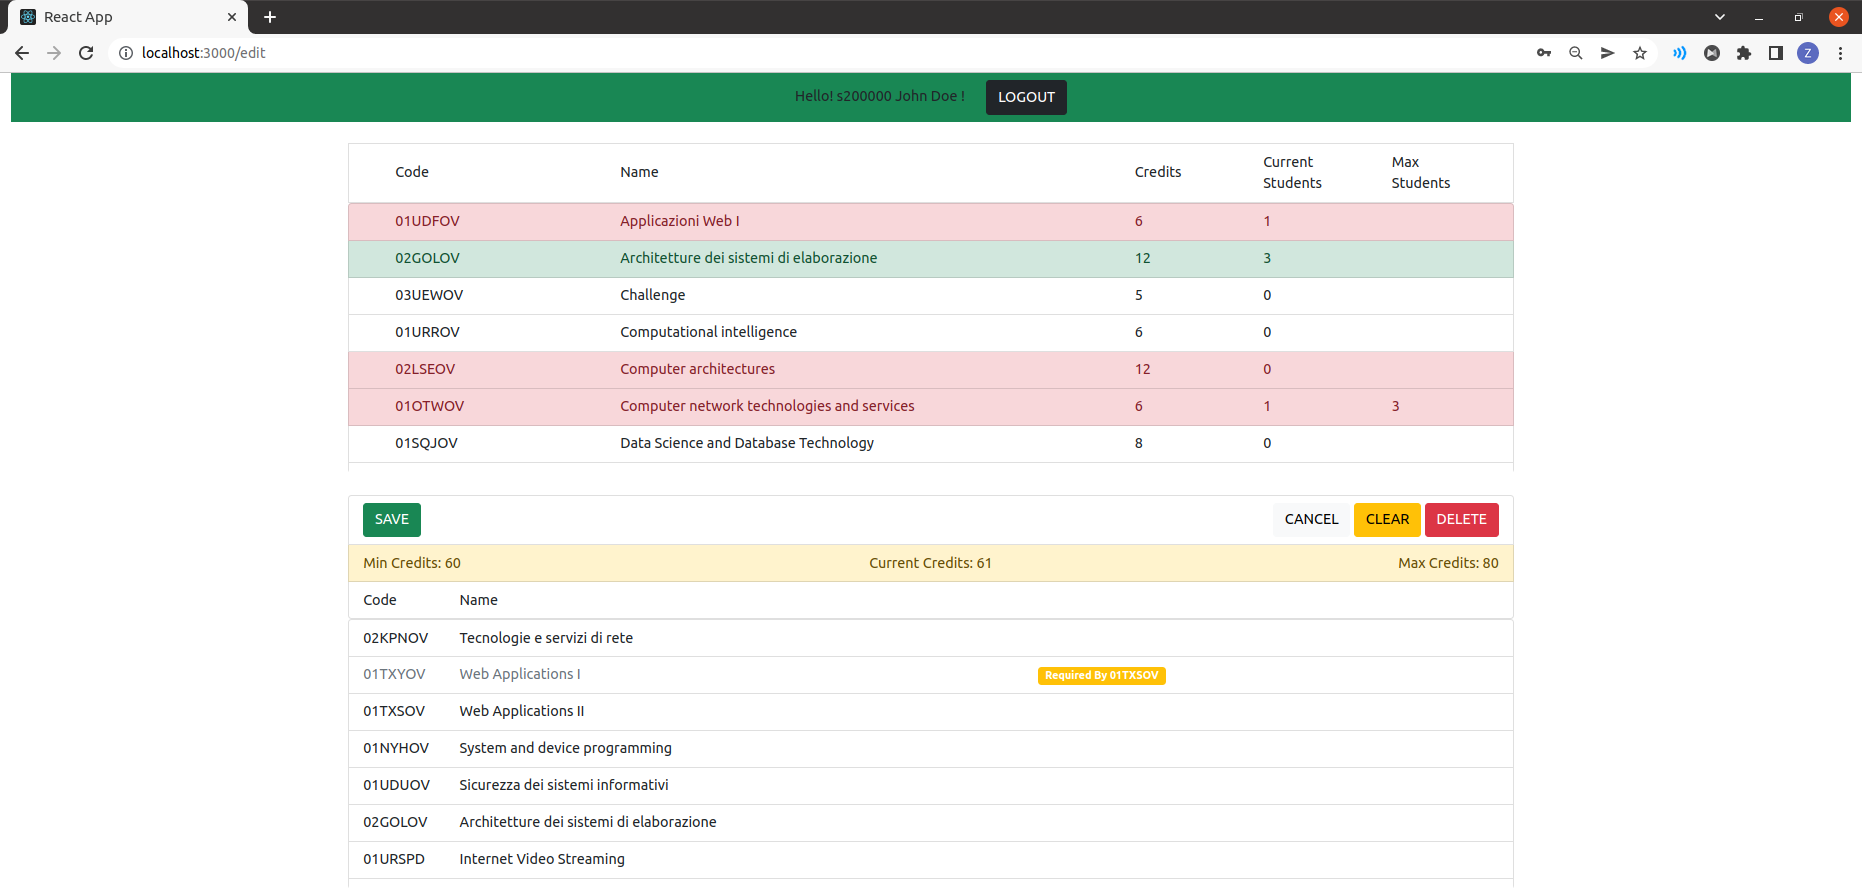
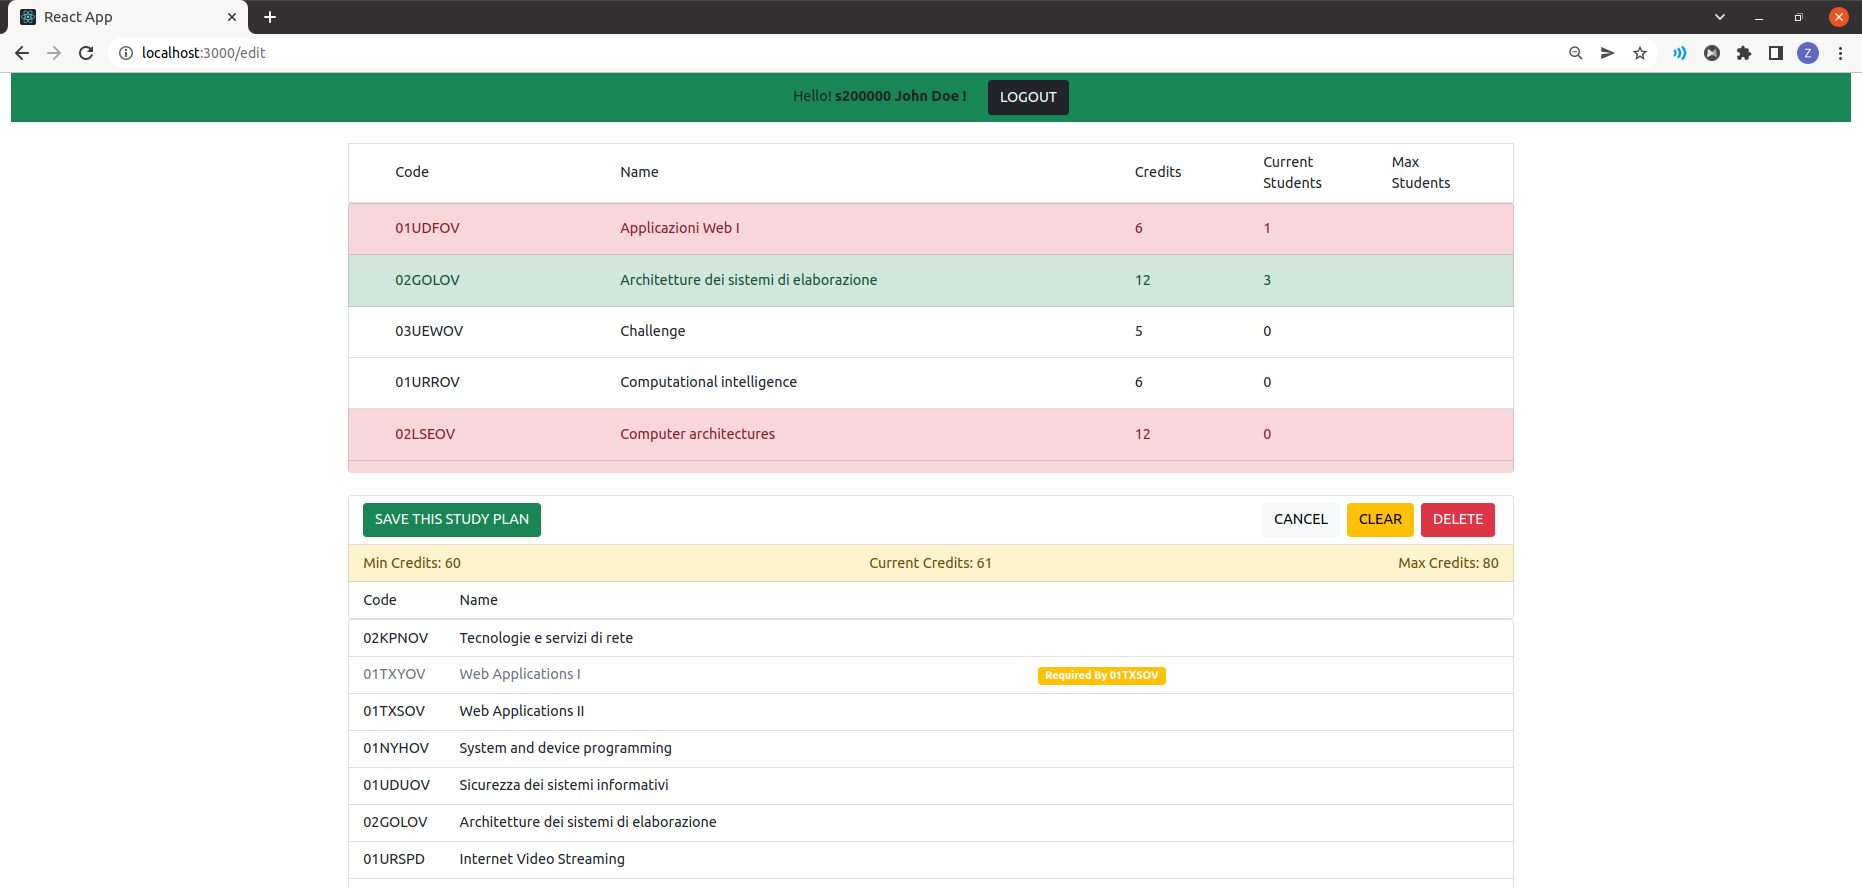
v0.95: Considered final except for obvious bugs

Changed region(s): [[0.1869, 0.2424, 0.841, 0.6061], [0.6853, 0.5758, 0.8099, 0.6061], [0.4361, 0.0909, 0.5607, 0.1212]]

diff --git a/client/src/components/AvailableCoursesList.js b/client/src/components/AvailableCoursesList.js
@@ -1,10 +1,7 @@
 import { Container, Row, Col, ListGroup, Badge } from 'react-bootstrap';
-import { useEffect, useState, useTransition } from 'react';
+import { useEffect, useState } from 'react';
 import { addSelectedCourse } from './models/SelectedCoursesFunctions';
-import {
-	fetchAvailableCourses,
-	setAvailableCoursesStatus
-} from './models/AvailableCoursesFunctions';
+import { fetchAvailableCourses } from './models/AvailableCoursesFunctions';
 
 export function AvailableCoursesList(props) {
 	useEffect(() => {
@@ -33,7 +30,7 @@ export function AvailableCoursesList(props) {
 				style={
 					props.hasLoggedIn
 						? { overflow: 'auto', maxHeight: '300px' }
-						: {}
+						: { overflow: 'auto', maxHeight: '700px' }
 				}>
 				<ListContent
 					isSelectable={props.isSelectable}
@@ -52,6 +49,7 @@ export function AvailableCoursesList(props) {
 function ListContent(props) {
 	return props.availableCoursesList.map(course => (
 		<ListRow
+			key={'avail-' + course.code}
 			isReady={props.isReady}
 			setIsReady={props.setIsReady}
 			isSelectable={props.isSelectable}
@@ -80,10 +78,10 @@ function ListRow(props) {
 		<>
 			<ListGroup.Item
 				action
-				eventKey={'avail_' + props.course.code}
+				// eventKey={'event_avail_' + props.course.code}
 				variant={
 					isCourseValid || !props.hasLoggedIn
-						? ''
+						? ' '
 						: props.isSelectable &&
 						  props.hasLoggedIn &&
 						  props.course.isTaken
@@ -93,82 +91,80 @@ function ListRow(props) {
 				onClick={() => {
 					setShowStatus(showStatus => !showStatus);
 				}}>
-				<Row className='d-flex align-items-center justify-content-evenly'>
+				<Row className='d-flex align-items-center justify-content-evenly my-2'>
 					<Col lg={2}>{props.course.code}</Col>
 					<Col lg={5}>{props.course.name}</Col>
 					<Col lg={1}>{props.course.credits}</Col>
 					<Col lg={1}>{props.course.currStudents}</Col>
 					<Col lg={1}>{props.course.maxStudents}</Col>
 				</Row>
+				{showStatus && (
+					<ListRowStatus
+						isReady={props.isReady}
+						setIsReady={props.setIsReady}
+						isSelectable={props.isSelectable}
+						hasLoggedIn={props.hasLoggedIn}
+						showStatus={showStatus}
+						selectedCoursesList={props.selectedCoursesList}
+						setSelectedCoursesList={props.setSelectedCoursesList}
+						addable={isCourseValid}
+						course={props.course}
+					/>
+				)}
 			</ListGroup.Item>
-			{showStatus && (
-				<ListRowStatus
-					isReady={props.isReady}
-					setIsReady={props.setIsReady}
-					isSelectable={props.isSelectable}
-					hasLoggedIn={props.hasLoggedIn}
-					showStatus={showStatus}
-					selectedCoursesList={props.selectedCoursesList}
-					setSelectedCoursesList={props.setSelectedCoursesList}
-					addable={isCourseValid}
-					course={props.course}
-				/>
-			)}
 		</>
 	);
 }
 
 function ListRowStatus(props) {
 	return (
-		<ListGroup.Item
-			action
-			disabled={!props.addable}
-			styles={{
-				...defaultStyles,
-				...transitionStyles[props.showStatus]
-			}}
+		<Row
+			as='li'
+			className='status-row d-flex align-items-center justify-content-between'
 			onClick={() => {
 				addSelectedCourse(props.course, props.setSelectedCoursesList);
 			}}>
-			<Row>
-				<Col>
-					{props.hasLoggedIn ? (
-						props.addable ? (
-							<div className='text'>
-								Click the row to add{' '}
-								<Badge>{props.course.code}</Badge>
-							</div>
-						) : !props.isSelectable ? (
-							<div className='text-muted'>
-								Create a Study Plan first
-							</div>
-						) : props.course.isTaken ? (
-							<div className='text-muted'>Course Added</div>
-						) : props.course.isFullyBooked ? (
-							<div className='text-muted'>Fully booked</div>
-						) : (
-							<div className='text-muted'>
-								Please check the constraint
-							</div>
-						)
+			<hr
+				style={{
+					backgroundColor: 'grey',
+					height: 1,
+					opacity: 0.3
+				}}
+			/>
+			<Col>
+				{props.hasLoggedIn ? (
+					props.addable ? (
+						<div className='text'>Click THIS Row To ADD</div>
+					) : !props.isSelectable ? (
+						<div className='text-muted'>
+							Create a Study Plan first
+						</div>
+					) : props.course.isTaken ? (
+						<div className='text-muted'>Course Added</div>
+					) : props.course.isFullyBooked ? (
+						<div className='text-muted'>Fully booked</div>
 					) : (
-						<div className='text-muted'>Please login first</div>
-					)}
-				</Col>
-				<Col className='d-flex justify-content-center'>
-					<ShowConflictBadges
-						course={props.course}
-						selectedCoursesList={props.selectedCoursesList}
-					/>
-				</Col>
-				<Col className='d-flex align-content-center'>
-					<ShowPreparatoryBadge
-						course={props.course}
-						selectedCoursesList={props.selectedCoursesList}
-					/>
-				</Col>
-			</Row>
-		</ListGroup.Item>
+						<div className='text-muted'>
+							Please check the constraint
+						</div>
+					)
+				) : (
+					<div className='text-muted'>Please login first</div>
+				)}
+			</Col>
+			<Col className='d-flex justify-content-center'>
+				<ShowConflictBadges
+					course={props.course}
+					selectedCoursesList={props.selectedCoursesList}
+				/>
+			</Col>
+			<Col className='d-flex align-content-center'>
+				<ShowPreparatoryBadge
+					course={props.course}
+					selectedCoursesList={props.selectedCoursesList}
+				/>
+			</Col>
+		</Row>
 	);
 }
 
@@ -180,7 +176,7 @@ function ShowConflictBadges(props) {
 			<div className='text-muted'>Incompatible with</div>
 			{props.course.incompatibleCodes.map(code => (
 				<Badge
-					className='ms-1'
+					className='mx-1'
 					bg={
 						props.course.conflictsList &&
 						props.course.conflictsList.includes(code)
@@ -199,7 +195,7 @@ function ShowPreparatoryBadge(props) {
 		<>
 			<div className='text-muted'>Needs</div>
 			<Badge
-				className='ms-1'
+				className='mx-1'
 				bg={props.course.hasPreparatory ? 'success' : 'warning'}>
 				{props.course.preparatoryCourseCode}
 			</Badge>
@@ -208,15 +204,3 @@ function ShowPreparatoryBadge(props) {
 		<Badge bg='success'>No Preparatory Required!</Badge>
 	);
 }
-
-const defaultStyles = {
-	transition: `opacity 300ms ease-in-out`,
-	opacity: 0
-};
-
-const transitionStyles = {
-	entering: { opacity: 1 },
-	entered: { opacity: 1 },
-	exiting: { opacity: 0 },
-	exited: { opacity: 0 }
-};

diff --git a/client/src/components/SelectedCoursesList.js b/client/src/components/SelectedCoursesList.js
@@ -8,7 +8,6 @@ import {
 	Badge,
 	Modal
 } from 'react-bootstrap';
-import { fetchAvailableCourses } from './models/AvailableCoursesFunctions';
 const listFunctions = require('./models/SelectedCoursesFunctions');
 
 export function SelectedCoursesList(props) {
@@ -124,7 +123,7 @@ export function SelectedCoursesList(props) {
 export function CreateNewStudyPlanRow(props) {
 	return (
 		<Row className='d-flex justify-content-center'>
-			<Col className='d-flex justify-content-center'>
+			<Col className='d-flex justify-content-evenly'>
 				<Button
 					className='mx-2'
 					variant='primary'
@@ -169,12 +168,12 @@ function ListActions(props) {
 							);
 							props.setHasSent(true);
 						}}>
-						SAVE
+						SAVE THIS STUDY PLAN
 					</Button>
 				</Col>
 				<Col className='d-flex justify-content-end'>
 					<Button
-						className='ms-1'
+						className='mx-1'
 						variant='light'
 						onClick={() => {
 							listFunctions.fetchSelectedCourses(
@@ -188,7 +187,7 @@ function ListActions(props) {
 						CANCEL
 					</Button>
 					<Button
-						className='ms-1'
+						className='mx-1'
 						variant='warning'
 						onClick={() => {
 							props.setSelectedCoursesList([]);
@@ -198,7 +197,7 @@ function ListActions(props) {
 						CLEAR
 					</Button>
 					<Button
-						className='ms-1'
+						className='mx-1'
 						variant='danger'
 						onClick={() => {
 							if (deleteConfirm) {

diff --git a/client/src/components/AuthNavBar.js b/client/src/components/AuthNavBar.js
@@ -120,8 +120,12 @@ function WelcomeMessage(props) {
 	return (
 		<Row className='d-inline justify-content-evenly'>
 			<Col className='d-inline justify-content-start align-items-center'>
-				Hello! {props.user.matricola} {props.user.first_name}{' '}
-				{props.user.last_name} !
+				Hello!{' '}
+				<strong>
+					{' '}
+					{props.user.matricola} {props.user.first_name}{' '}
+					{props.user.last_name} !
+				</strong>
 			</Col>
 			<Col className='d-inline justify-content-end align-items-center'>
 				<Button
@@ -133,15 +137,5 @@ function WelcomeMessage(props) {
 				</Button>
 			</Col>
 		</Row>
-	);
-}
-
-function LoginButtonWithPopup(props) {
-	return (
-		<Popover placement='bottom'>
-			<Popover.Body>
-				<strong>{props.errMessage}</strong>
-			</Popover.Body>
-		</Popover>
 	);
 }

diff --git a/client/src/App.css b/client/src/App.css
@@ -1,3 +1,7 @@
 ::-webkit-scrollbar {
 	display: none;
 }
+
+.status-row:hover {
+	opacity: 0.5
+}

diff --git a/client/README.md b/client/README.md
@@ -2,7 +2,7 @@
 
 ## Overview
 
-The front-end components of the web application "Study Plan" is developed using React.js and other assistant modules (see `package.json`), which is set to running on `http://localhost:3000`<br/>
+The front-end components of the web application "Study Plan" is developed using React.js and other assistant modules (see `package.json`), which is set to running on `http://localhost:3000`
 
 The default route will lead the user to the view for unauthorized users, in which where only the `list of all available courses` fetched from the backend server will be visible to the user. At this stage, **all the users is able to check on corresponding information/descriptions of all the available courses.** The **navbar** will be visible in company with the list and will guide the user to complete the logging-in process with student number `matricola` and `password`.
 
@@ -10,7 +10,7 @@ After successfully logging in, the frontend will try to fetch the existing study
 
 Once the list of selected courses is visible, the user is free to make the following operations:
 
--   The user can continue to **expand/contract descriptions for courses** from the `available courses' list`.
--   The user can add a course by **clicking on the expanded row of corresponding course** after confirming in that row that there is no violations of constraints from adding this course.
--   The user can **click on any course in the** `selected courses' list` **to remove the it from the list** when there is no violations of preparatory constraints.
--   Upon any adding/removing the `selected courses' list`
+- The user can continue to **expand/contract descriptions for courses** from the `available courses' list`.
+- The user can add a course by **clicking on the expanded row of corresponding course** after confirming in that row that there is no violations of constraints from adding this course.
+- The user can **click on any course in the** `selected courses' list` **to remove the it from the list** when there is no violations of preparatory constraints.
+- Upon any adding/removing the `selected courses' list`
